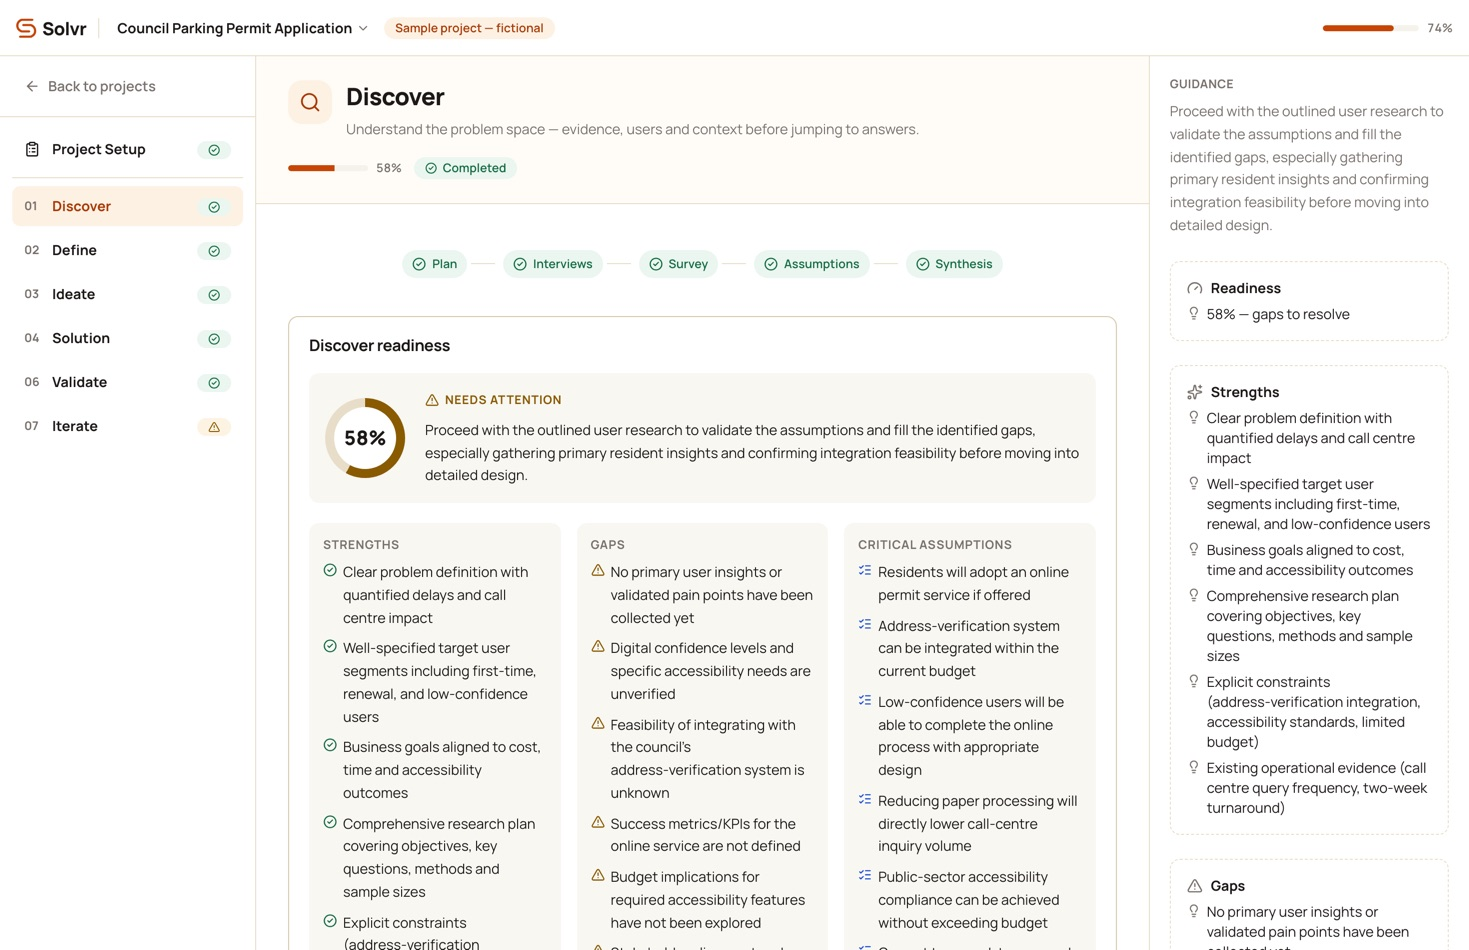
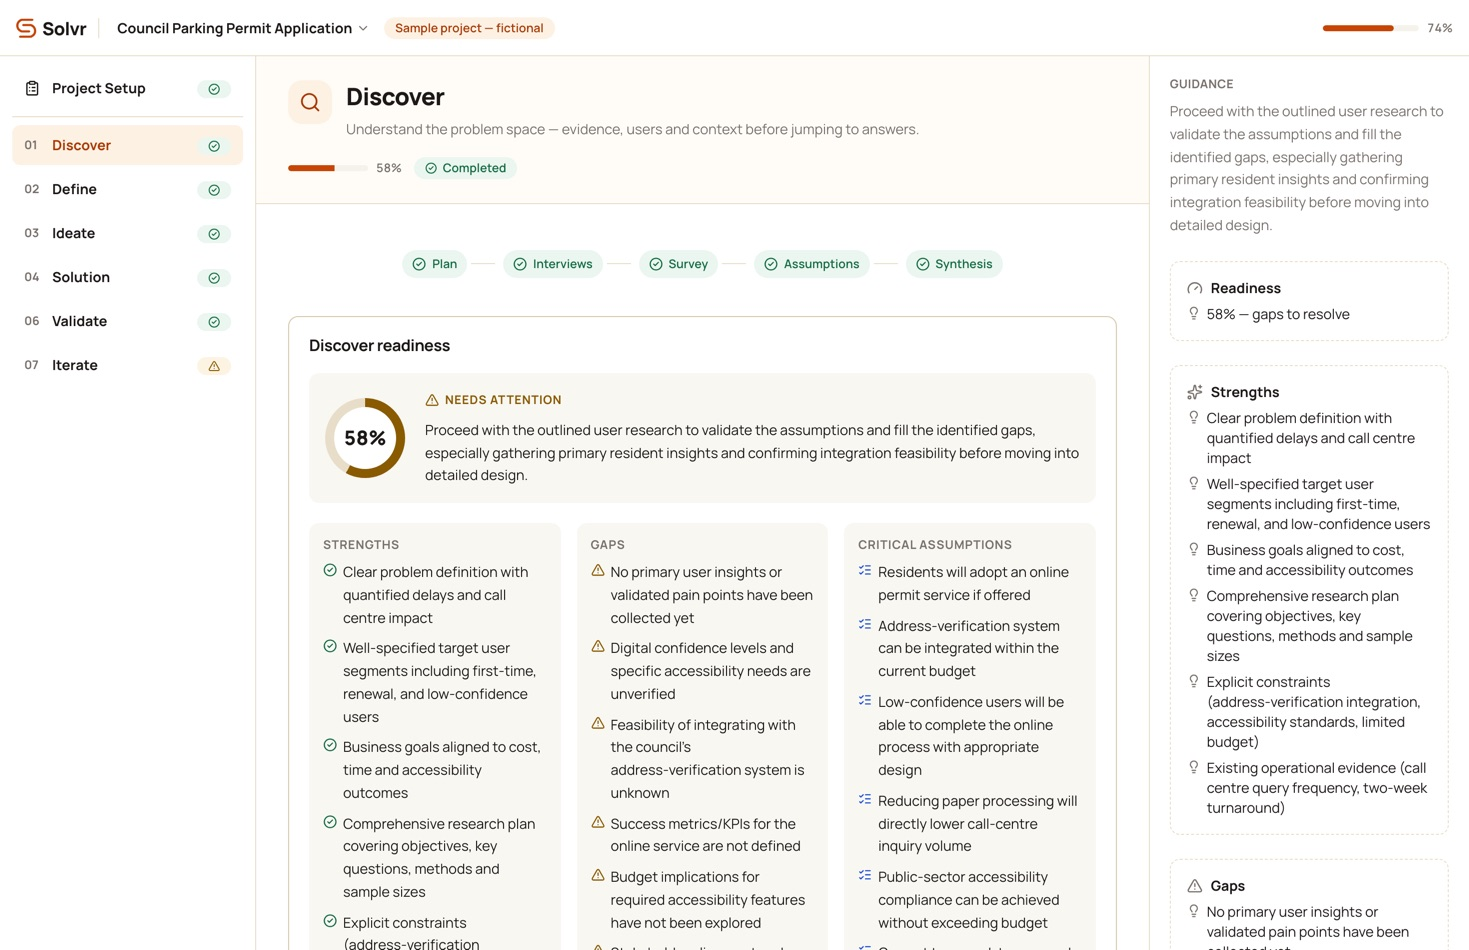
Remove the redundant "Back to projects" link from the stage sidebar
The header's project-name dropdown already has a "Back to projects"
link, and now also lists other projects to switch to, making the
sidebar's copy of that link dead weight. Refresh the hero screenshot to
match.

Claude-Session: https://claude.ai/code/session_01LFLF7B8LEyAFCLva1mCGFB

Changed region(s): [[0.0, 0.0611, 0.1838, 0.4579], [0.1225, 0.3053, 0.1532, 0.3968], [0.1225, 0.4274, 0.1532, 0.4579]]

diff --git a/src/components/app/stage-nav.tsx b/src/components/app/stage-nav.tsx
@@ -1,5 +1,5 @@
-import { ArrowLeft, ClipboardList } from 'lucide-react'
-import { Link, NavLink } from 'react-router-dom'
+import { ClipboardList } from 'lucide-react'
+import { NavLink } from 'react-router-dom'
 import { StatusBadge } from '@/components/app/status-badge'
 import type { Project } from '@/data/models'
 import {
@@ -23,17 +23,6 @@ export function StageNav({ project, onNavigate }: StageNavProps) {
 
   return (
     <div className="flex flex-col">
-      <div className="border-b border-border p-3">
-        <Link
-          to="/app"
-          onClick={onNavigate}
-          className="flex items-center gap-2 rounded-md px-3 py-2 text-sm font-semibold text-muted-foreground transition-colors hover:bg-muted hover:text-foreground"
-        >
-          <ArrowLeft className="size-4" aria-hidden />
-          Back to projects
-        </Link>
-      </div>
-
       <nav aria-label="Design process stages" className="flex flex-col gap-1 p-3">
         <NavLink
           to={`/app/projects/${project.id}/setup`}
